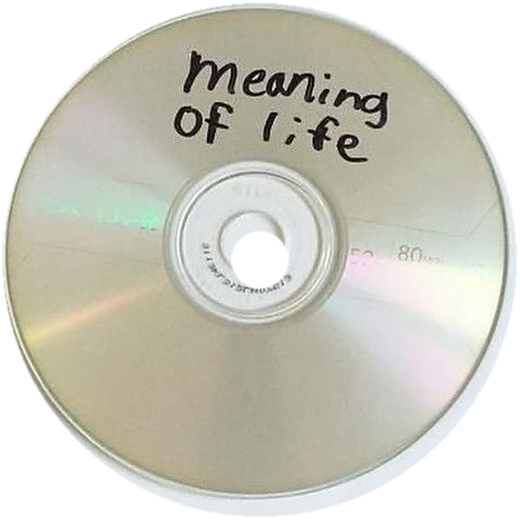
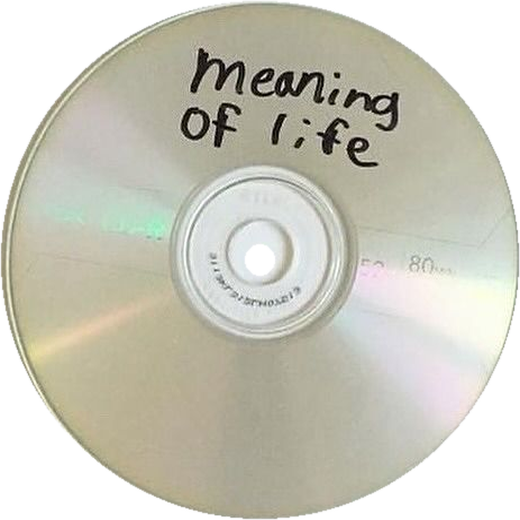
Songs: precise disc cut-out; sticker positioned absolutely over the top bar
Claude-Session: https://claude.ai/code/session_01AW8gwoCEFVC6XRxCCjRru6

diff --git a/src/index.css b/src/index.css
@@ -240,6 +240,7 @@ button {
 }
 
 .page {
+  position: relative;
   max-width: 1160px;
   width: 100%;
   margin: 0 auto;
@@ -1137,9 +1138,10 @@ button {
 /* ---------- songs ---------- */
 
 .disc-wrap {
-  position: relative;
-  align-self: center;
-  margin-right: 24px;
+  position: absolute;
+  right: 40px;
+  top: -22px; /* creeps over the top bar a little; takes no space in the layout */
+  z-index: 11;
 }
 .disc {
   display: block;
